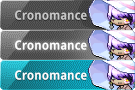
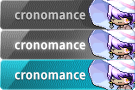
added relric, added millicent and updated cronomance

diff --git a/guild-photo-participants-2023.js b/guild-photo-participants-2023.js
@@ -3,5 +3,7 @@ export default [
   "calsuucake",
   "cronomance",
   "katsumileaf",
+  "millicent",
+  "relric",
   "slaintsigus"
 ]
